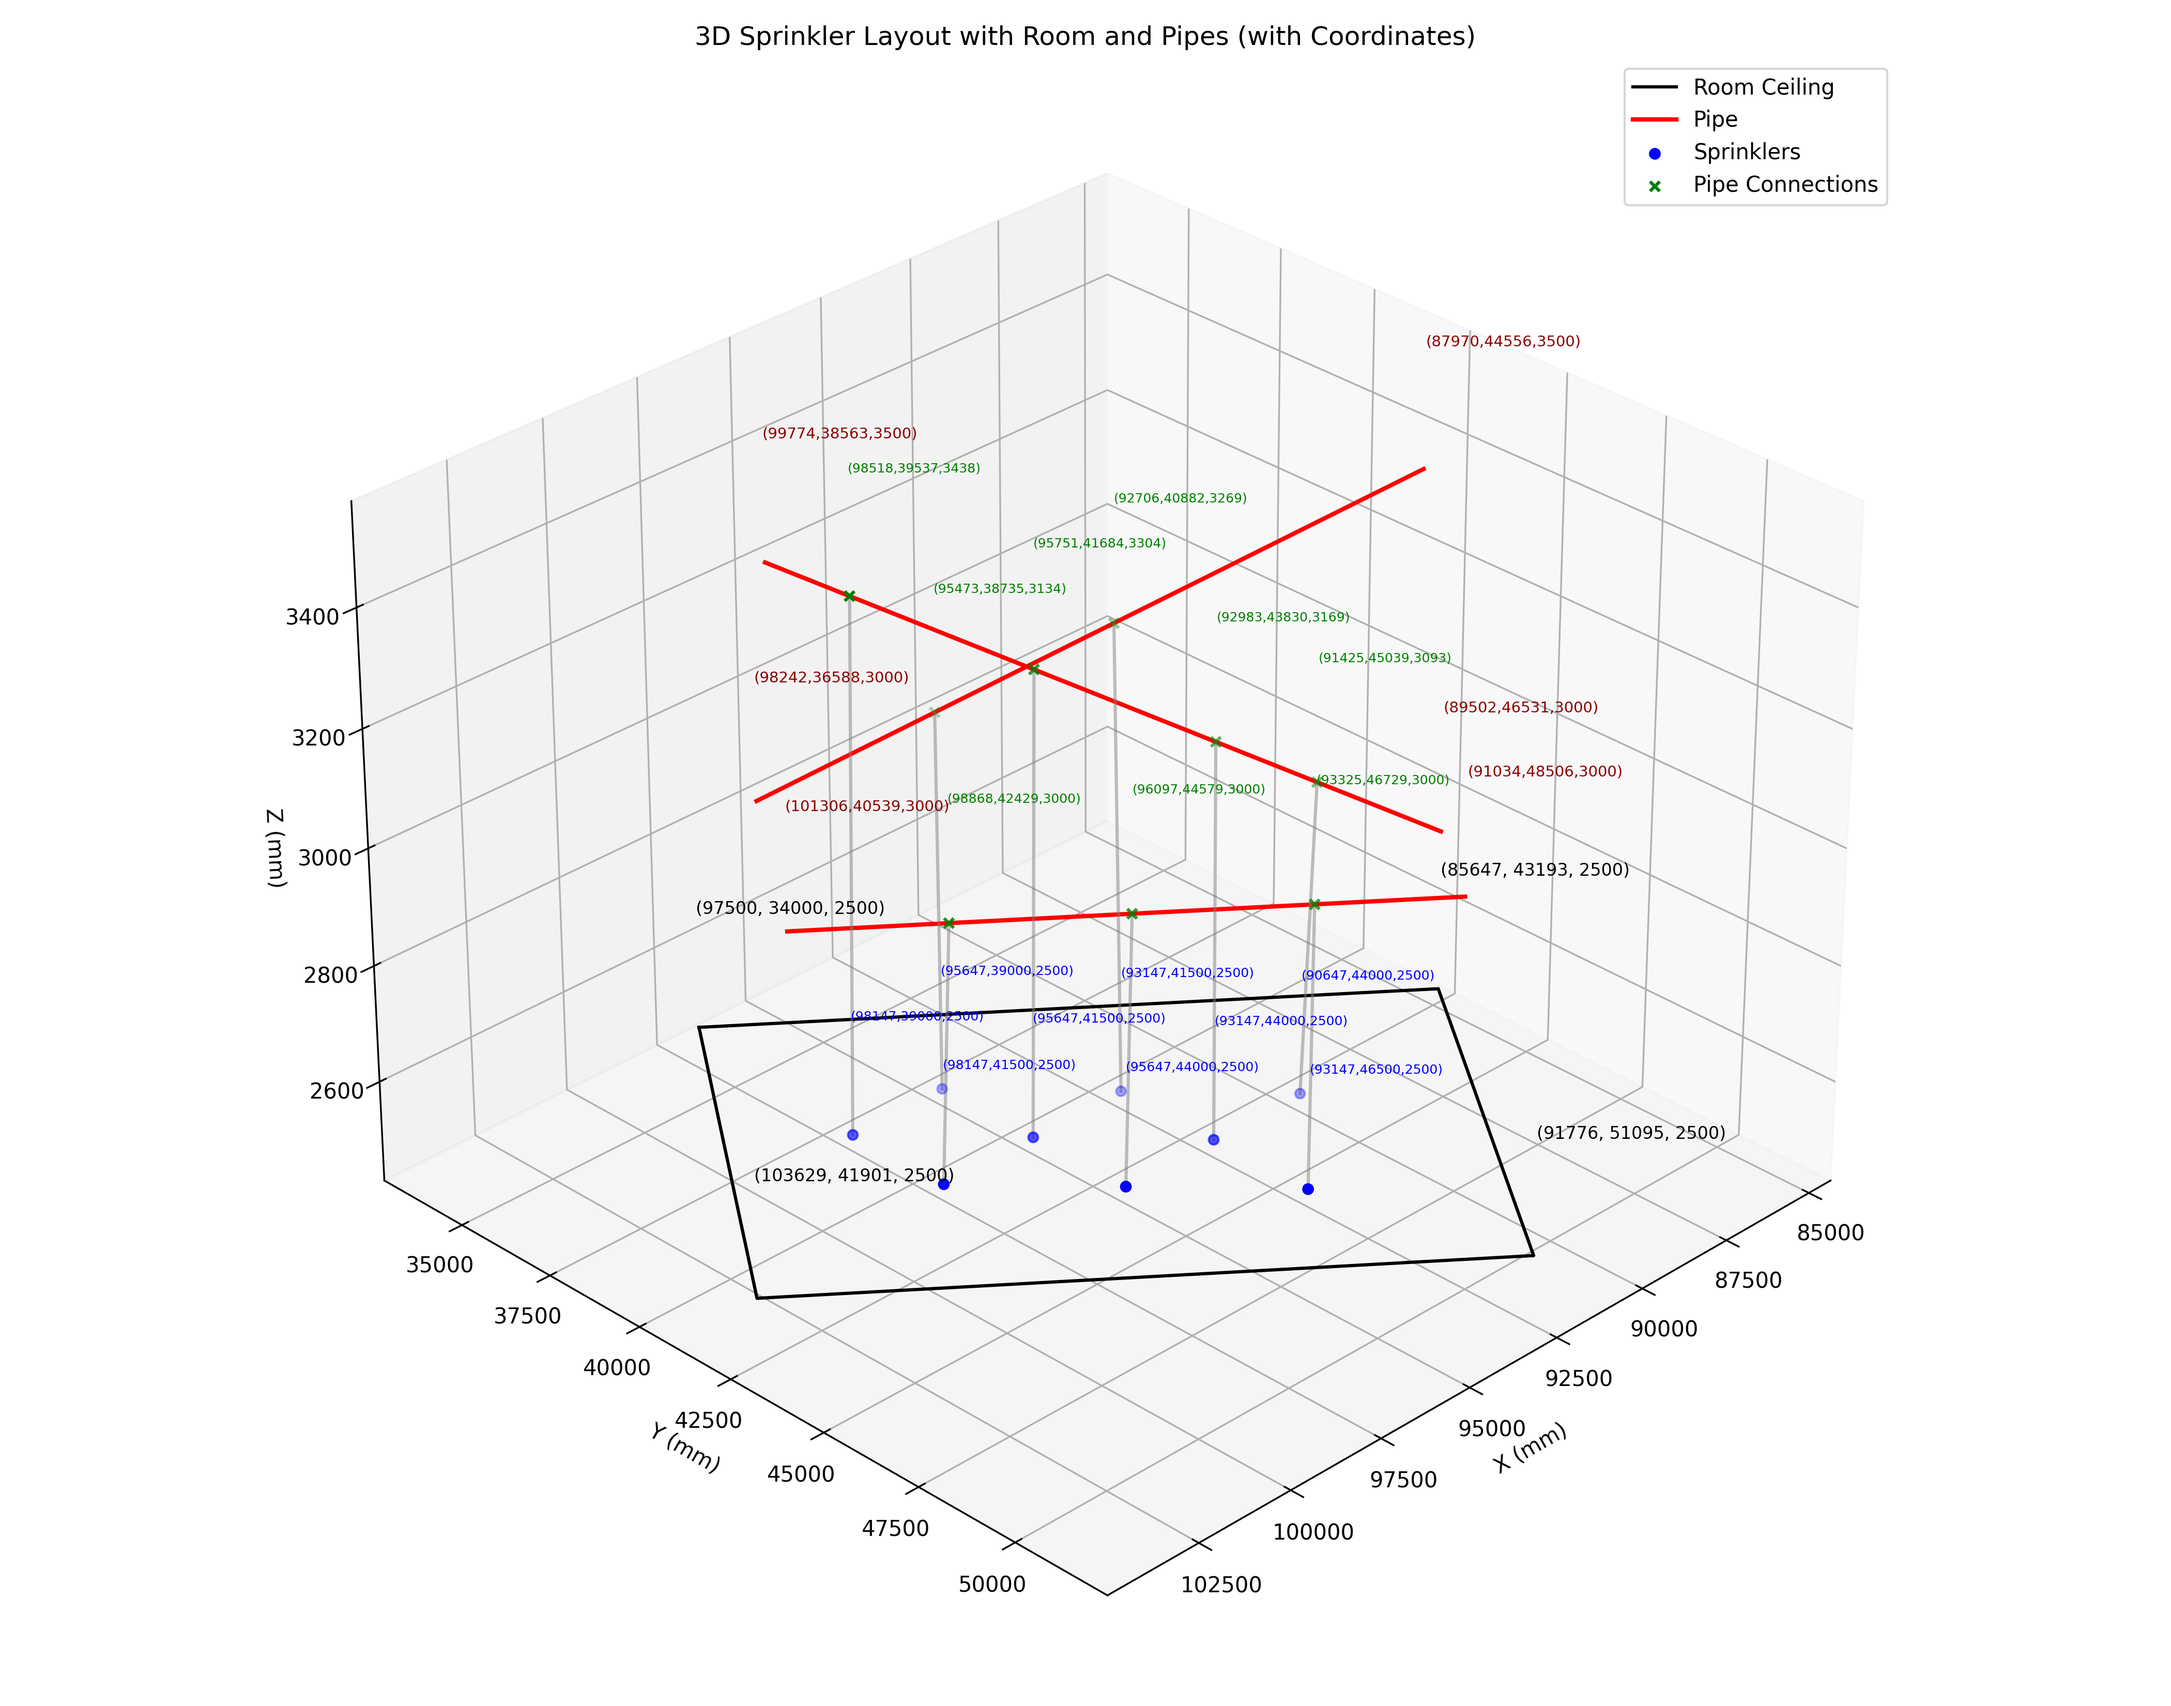
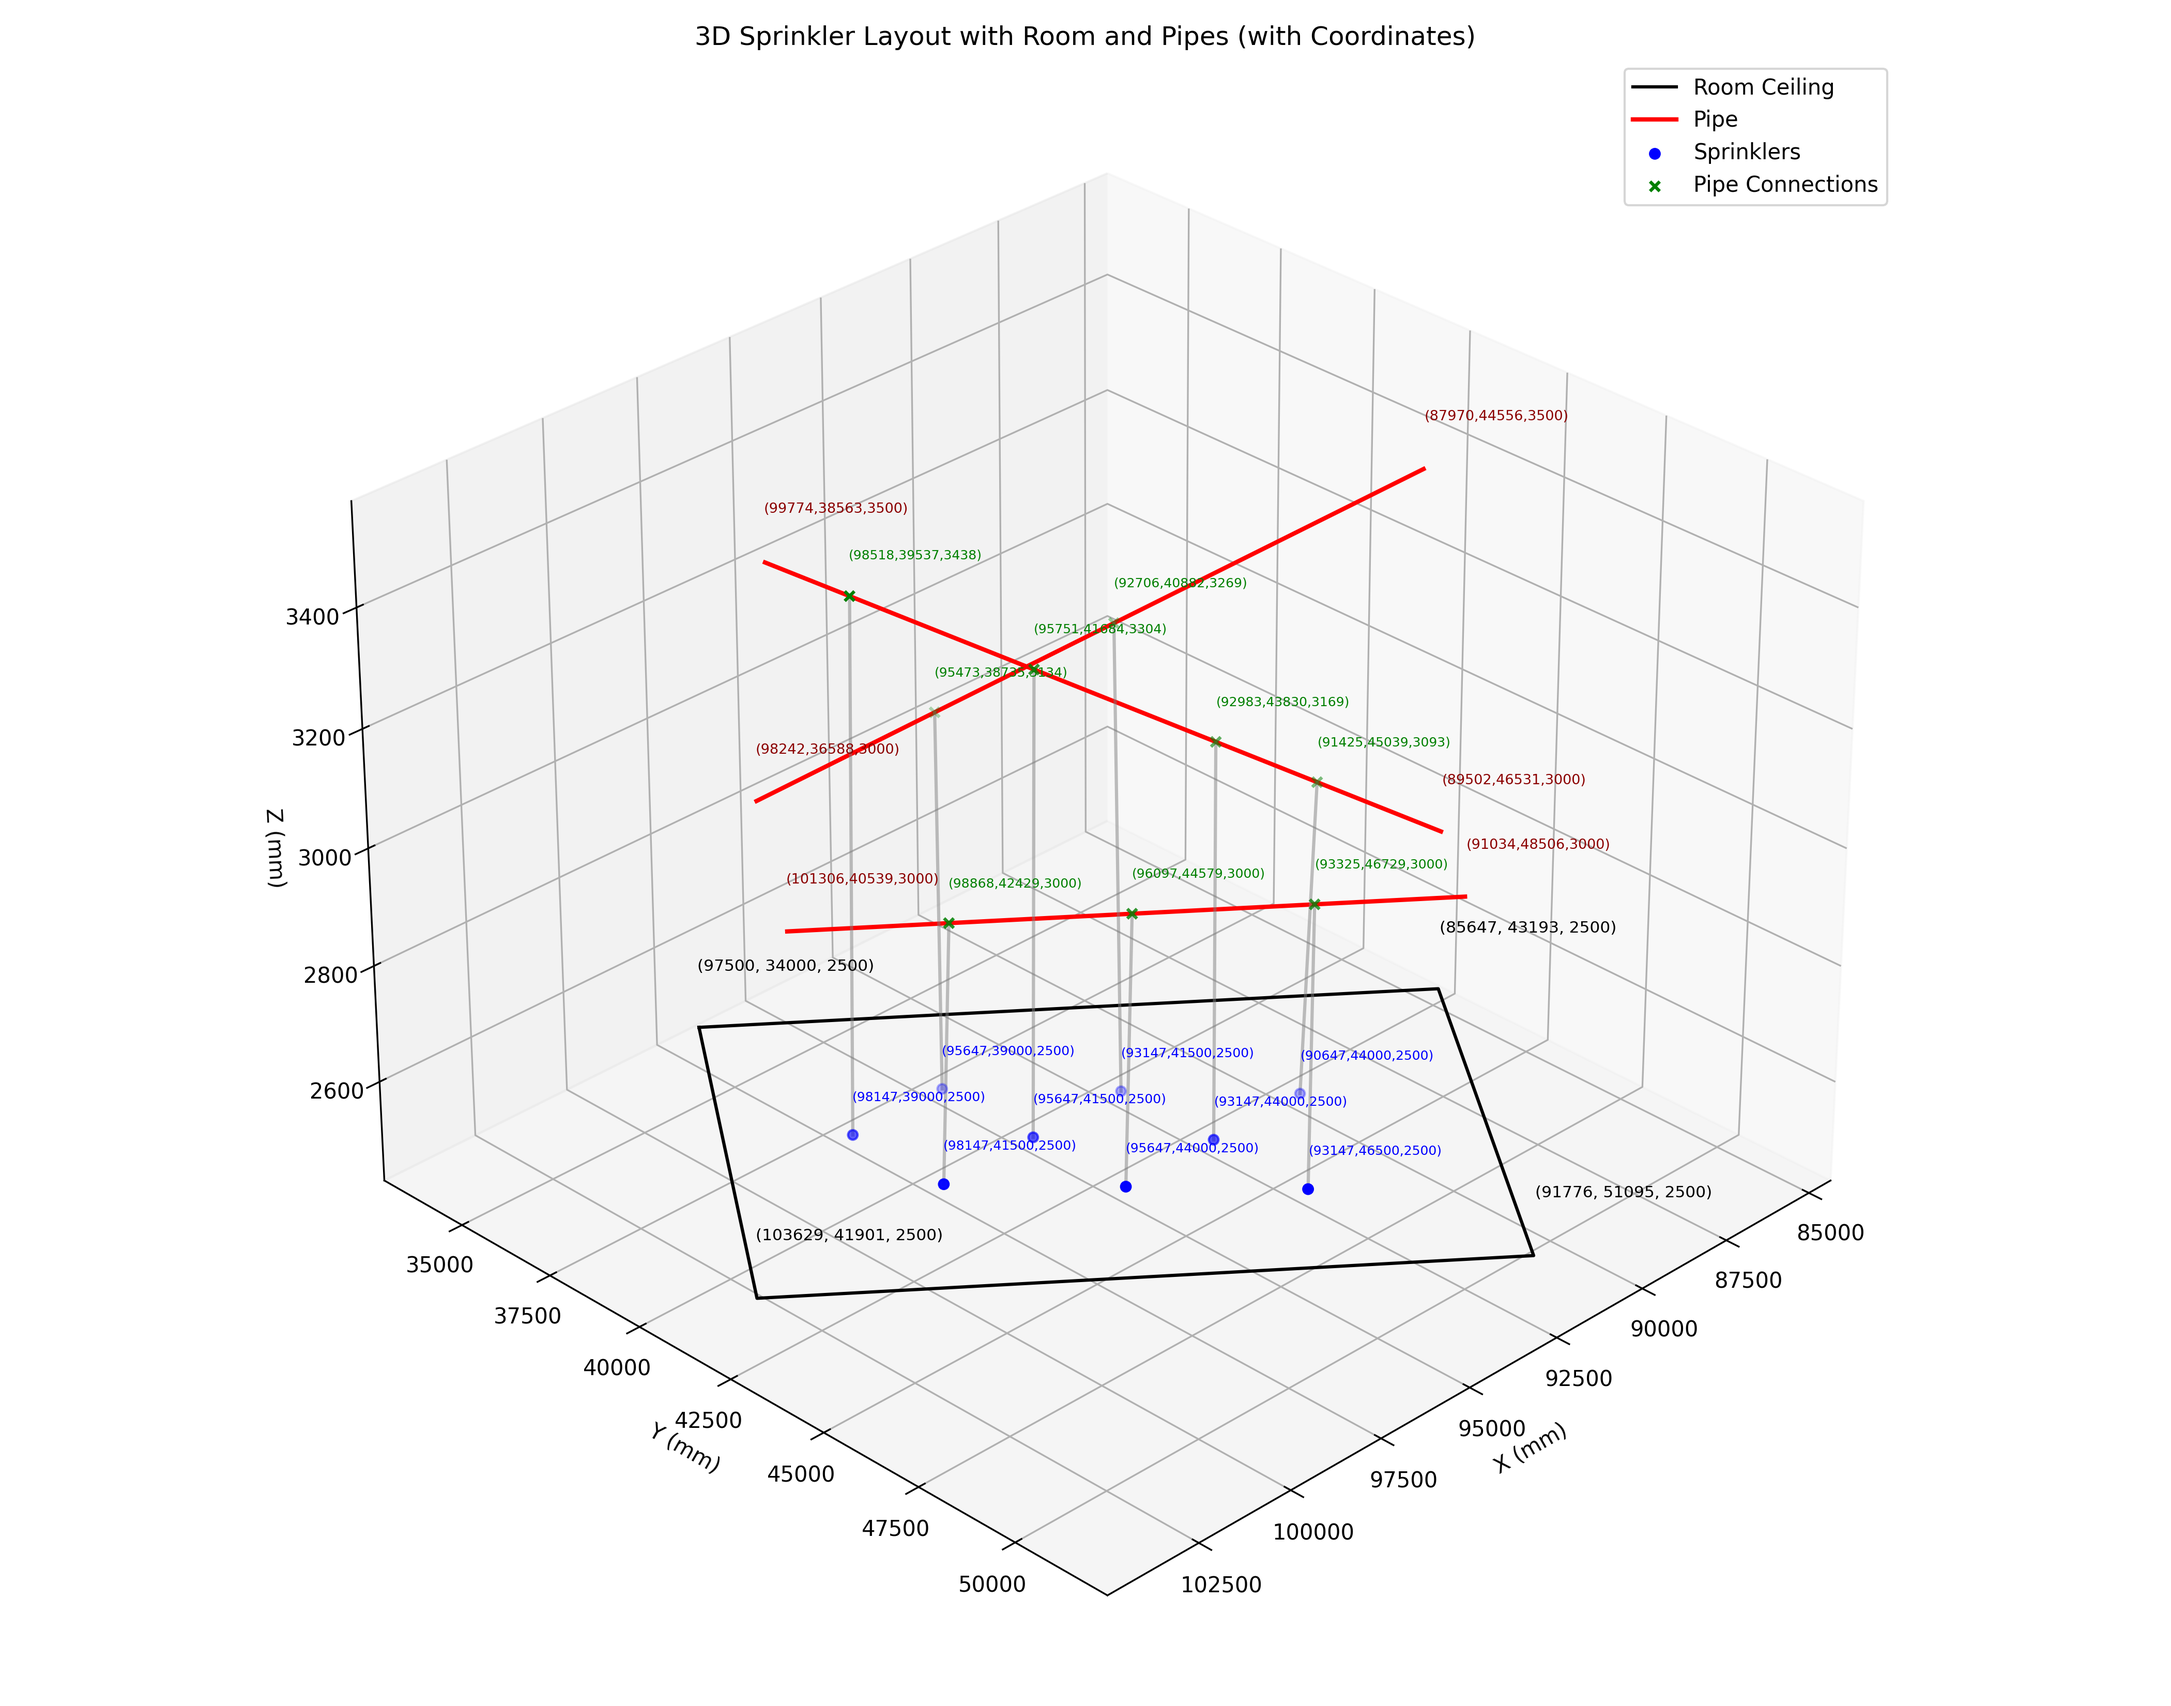
refactored 3D python view file and fixed name in README.md

diff --git a/SprinklerPlannerApp/Visualization/visualize_3D.py b/SprinklerPlannerApp/Visualization/visualize_3D.py
@@ -28,21 +28,20 @@ room_x, room_y, room_z = zip(*room_corners + [room_corners[0]])
 ax.plot(room_x, room_y, room_z, color='black', label='Room Ceiling')
 
 for pt in room_corners:
-    ax.text(pt[0], pt[1], pt[2] + 200, f'({int(pt[0])}, {int(pt[1])}, {int(pt[2])})',
-            fontsize=8, color='black')
+    ax.text(pt[0], pt[1], pt[2] + 100, f'({int(pt[0])}, {int(pt[1])}, {int(pt[2])})',
+            fontsize=7.5, color='black')
 
 for i, (start, end) in enumerate(pipe_segments):
-    xs = [start[0], end[0]]
-    ys = [start[1], end[1]]
-    zs = [start[2], end[2]]
+    xs, ys, zs = [start[0], end[0]], [start[1], end[1]], [start[2], end[2]]
     ax.plot(xs, ys, zs, color='red', linewidth=2, label='Pipe' if i == 0 else None)
 
-    ax.text(start[0], start[1], start[2] + 200, f'({int(start[0])},{int(start[1])},{int(start[2])})',
-            fontsize=7, color='darkred')
-    ax.text(end[0], end[1], end[2] + 200, f'({int(end[0])},{int(end[1])},{int(end[2])})',
-            fontsize=7, color='darkred')
+    ax.text(start[0], start[1], start[2] + 80, f'({int(start[0])},{int(start[1])},{int(start[2])})',
+            fontsize=6.5, color='darkred')
+    ax.text(end[0], end[1], end[2] + 80, f'({int(end[0])},{int(end[1])},{int(end[2])})',
+            fontsize=6.5, color='darkred')
 
 ax.scatter(df["SprinklerX"], df["SprinklerY"], df["SprinklerZ"], color='blue', label="Sprinklers")
+
 ax.scatter(df["PipeX"], df["PipeY"], df["PipeZ"], color='green', marker='x', label="Pipe Connections")
 
 for _, row in df.iterrows():
@@ -51,11 +50,11 @@ for _, row in df.iterrows():
             [row["SprinklerZ"], row["PipeZ"]],
             c='gray', alpha=0.5)
 
-    ax.text(row["SprinklerX"], row["SprinklerY"], row["SprinklerZ"] + 200,
+    ax.text(row["SprinklerX"], row["SprinklerY"], row["SprinklerZ"] + 60,
             f'({int(row["SprinklerX"])},{int(row["SprinklerY"])},{int(row["SprinklerZ"])})',
             fontsize=6, color='blue')
 
-    ax.text(row["PipeX"], row["PipeY"], row["PipeZ"] + 200,
+    ax.text(row["PipeX"], row["PipeY"], row["PipeZ"] + 60,
             f'({int(row["PipeX"])},{int(row["PipeY"])},{int(row["PipeZ"])})',
             fontsize=6, color='green')
 

diff --git a/README.md b/README.md
@@ -198,14 +198,14 @@ SprinklerX,SprinklerY,SprinklerZ,PipeX,PipeY,PipeZ
 
 ---
 
-### Sprinkler Placement Visualization(2D)
+### Sprinkler Placement Visualization (2D)
 
 You can visualize the sprinkler placements in a 2D top-down view using the provided Python script. This helps to understand the distribution and coverage of the sprinklers within the room.
 
 ### Run the Visualization Script
 
 ```bash
-python3 SprinklerPlannerApp/Visualization/visualize.py
+python3 SprinklerPlannerApp/Visualization/visualize_2D.py
 ```
 
 Make sure you have the required Python packages installed:
@@ -226,14 +226,14 @@ The image shows:
 - **Black polygon**: Room boundary
 ---
 
-### Sprinkler Placement Visualization(3D)
+### Sprinkler Placement Visualization (3D)
 
 You can visualize the sprinkler placements in a 3D view using the provided Python script. This helps to understand the distribution and coverage of the sprinklers within the room.
 
 ### Run the Visualization Script
 
 ```bash
-python3 SprinklerPlannerApp/Visualization/visualize_3d.py
+python3 SprinklerPlannerApp/Visualization/visualize_3D.py
 ```
 
 Make sure you have the required Python packages installed:
